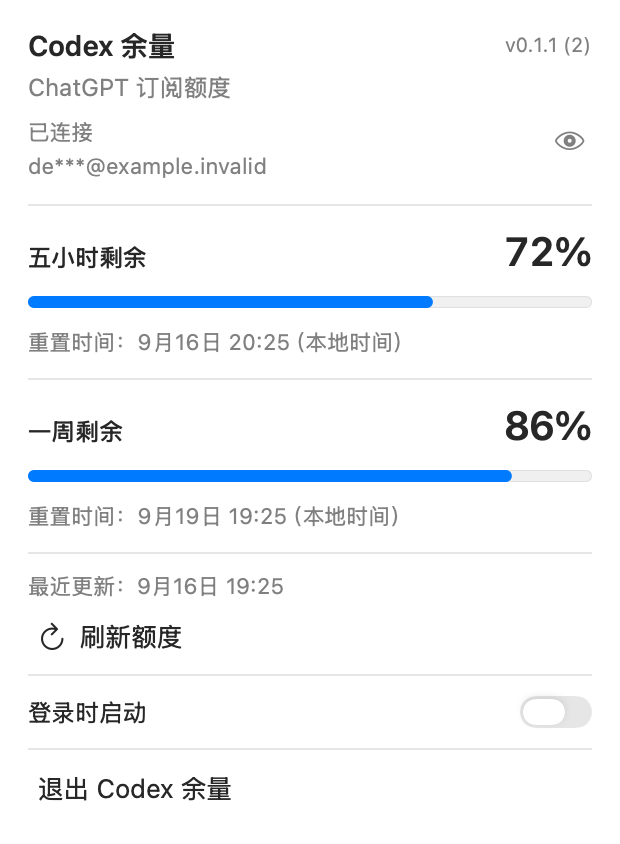
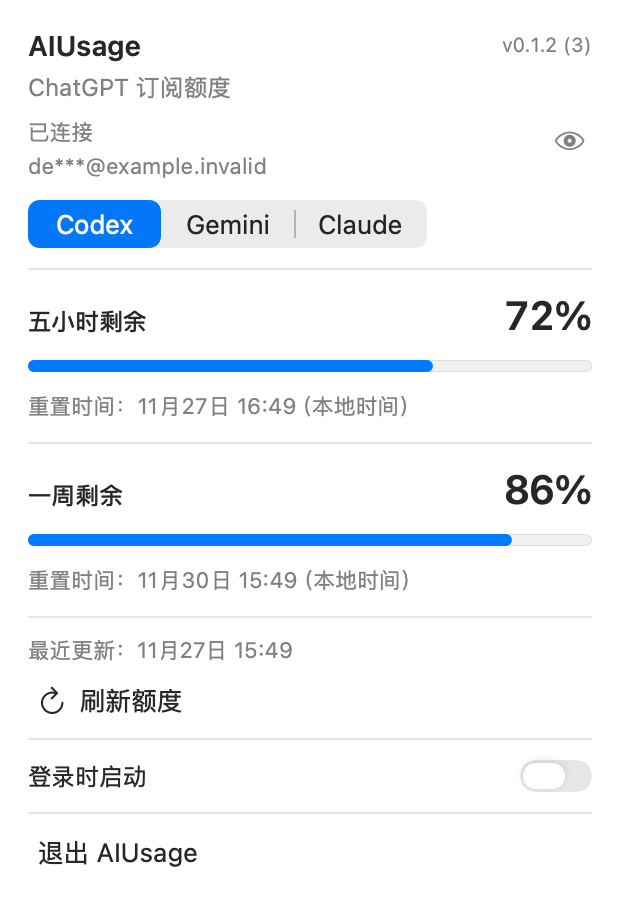
docs: 更新 v0.1.2 使用说明与 Gemini 截图

diff --git a/README.md b/README.md
@@ -1,41 +1,44 @@
-<img src="screenshots/app-icon.png" width="84" alt="Codex 余量 App 图标">
+<img src="screenshots/app-icon.png" width="84" alt="AIUsage App 图标">
 
-# Codex 余量
+# AIUsage（Codex / Gemini 余量）
 
-一个轻量的 macOS 菜单栏工具，抬眼就能看到 Codex 还剩多少额度。
+一个轻量的 macOS 菜单栏工具，抬眼就能看到 **Gemini（Antigravity）** 与 **Codex** 还剩多少额度，支持在弹窗顶部一键切换服务。
 
-**[下载 macOS App · v0.1.1 预览版](https://github.com/kale2222/CodexUsage/releases/download/v0.1.1/CodexUsage-0.1.1-macOS-arm64.zip)**
+**[下载 macOS App · v0.1.2 预览版](https://github.com/kale2222/CodexUsage/releases/download/v0.1.2/CodexUsage-0.1.2-macOS-arm64.zip)**
 
 [所有版本](https://github.com/kale2222/CodexUsage/releases) · [问题反馈](https://github.com/kale2222/CodexUsage/issues)
 
-- 五小时限额：`5h 72% · 22:29`
-- 仅周限额：`7d 86%`，完整重置日期放在详情中。
-- 默认约每 5 分钟更新，也支持手动刷新、账号核验和登录时启动。
+- **Gemini（Antigravity）**：显示五小时与一周余量（如 `5h 75% · 22:29`）及独立额度组（如 Claude 与 GPT 模型）；默认每 15 分钟自动刷新，打开弹窗时按需更新。
+- **Codex**：支持五小时限额（`5h 72% · 22:29`）与仅周限额（`7d 86%`）；默认约每 5 分钟自动刷新，支持手动刷新与脱敏账号核验。
+- **Claude**：弹窗顶部预留切换入口，当前尚未接入，不会发起后台读取。
+- 仅对当前选中的服务执行刷新与唤醒，支持登录时启动。
 
 百分比表示**剩余额度**，时间表示本地重置时刻。无需 Xcode 或自行编译。
 
 ## 界面预览
 
-<img src="screenshots/menu.png" width="180" alt="实际菜单栏中的 Codex 余量项">
+<img src="screenshots/menu.png" width="180" alt="实际菜单栏中的余量项">
 
-<p><img src="screenshots/weekly.png" width="310" alt="仅周限额、版本与脱敏账号"><img src="screenshots/dual.png" width="310" alt="五小时与一周额度详情"></p>
+<p><img src="screenshots/gemini.png" width="310" alt="Gemini 五小时、一周与独立额度组"><img src="screenshots/dual.png" width="310" alt="Codex 五小时与一周额度详情"></p>
 
-以上是运行中的原生 App 视图截图，使用演示账号与额度；截图采用纯色底方便阅读，实际浮层使用系统材质，不是 HTML 原型。
+<p><img src="screenshots/weekly.png" width="310" alt="Codex 仅周限额、版本与脱敏账号"></p>
+
+以上是运行中的原生 App 视图截图，使用离线演示身份与额度；截图采用纯色底方便阅读，实际浮层使用系统材质，不是 HTML 原型。
 
 ## 使用要求
 
 - Apple Silicon Mac，macOS 26 或更新版本。
-- 安装官方 ChatGPT / Codex 桌面应用或 Codex CLI。
-- 使用具有 Codex 使用权限的 **ChatGPT 账号登录**，不是 API Key 登录。
+- **使用 Gemini（Antigravity）**：本机已安装并登录 `agy` CLI（要求 `1.1.11` 或更新版本，本机已验证 `1.5.16`）。
+- **使用 Codex**：安装官方 ChatGPT / Codex 桌面应用或 Codex CLI，并使用具有 Codex 权限的 **ChatGPT 账号登录**（不是 API Key 登录）。
 
-本机已验证 macOS 26.5.2 和官方内附 Codex `0.154.0-alpha.6.2`。其他机器、组件版本及套餐仍需试用反馈；是否有可显示的窗口以官方实际返回为准。
+本机已验证 macOS 26.5.2、官方内附 Codex `0.154.0-alpha.6.2` 与 `agy 1.5.16`。其他机器、组件版本及套餐仍需试用反馈；是否有可显示的窗口以官方实际返回为准。
 
 ## 安装与首次连接
 
-1. 下载附件 **`CodexUsage-0.1.1-macOS-arm64.zip`**，解压后将 `CodexUsage.app` 拖入“应用程序”。
-2. 如果还没有官方 Codex 组件，按下面的指引先安装并登录。
-3. 打开本 App，点击菜单栏中的 ChatGPT 图标。已有可用登录时会直接显示额度；否则点击“连接 Codex”，在官方浏览器流程中登录。
-4. 查看详情中的账号。点击眼睛按钮可显示完整邮箱，与官方应用的个人资料菜单核对。
+1. 下载附件 **`CodexUsage-0.1.2-macOS-arm64.zip`**，解压后将 `CodexUsage.app` 拖入“应用程序”。
+2. 打开本 App，点击菜单栏图标，在弹窗顶部切换 **Codex / Gemini / Claude**：
+   - **Gemini**：首次启动默认选中 Gemini。若终端已登录 `agy`，会自动读取余量；若尚未登录或刚完成登录，请在终端登录 `agy` 后点击“重新检查”。
+   - **Codex**：已有可用登录时会直接显示额度；否则点击“连接 Codex”，在官方浏览器流程中登录。点击眼睛按钮可显示完整邮箱，与官方应用的个人资料菜单核对。
 
 请下载 Release 的 **App ZIP 附件**。`Source code (zip)` 和“Code → Download ZIP”仅包含本仓库的说明与截图，不是安装包。
 
@@ -61,7 +64,7 @@ codex login
 
 ## 重要：按住 Command（⌘）拖动菜单栏图标
 
-> **按住 Command（⌘），再用鼠标拖动菜单栏中的 ChatGPT 余量图标，就可以调整位置。**
+> **按住 Command（⌘），再用鼠标拖动菜单栏中的余量图标，就可以调整位置。**
 
 拖到靠近时钟、容易看到的位置后松开鼠标，再松开 Command，应用会记住位置。
 
@@ -73,30 +76,28 @@ codex login
 
 1. 尝试打开 App，然后关闭拦截提示。
 2. 打开 **系统设置 → 隐私与安全性 → 安全性**。
-3. 找到与 CodexUsage 相关的拦截记录，点击 **“仍要打开”**。
+3. 找到与 CodexUsage / AIUsage 相关的拦截记录，点击 **“仍要打开”**。
 4. 按提示验证身份，并确认“打开”。
 
 若没有相应按钮，或提示“App 已损坏”“将损坏你的电脑”，不要一概当作普通未公证提示；请重新下载并反馈具体错误。[Apple 官方说明](https://support.apple.com/zh-cn/102445)
 
 ## 账号与隐私
 
-- 数据路径是 **本 App → 本机官方 Codex 组件 → 官方服务**。本 App 没有开发者后端，也没有内置遥测或自动上报。
-- 读取的是 Codex 的 ChatGPT 账号限额，不是 API 余额、其他模型的独立额度或整个 ChatGPT 的通用消息额度。数字不是实时推送，可结合“最近更新”核对。
-- 详情默认对邮箱脱敏，点击眼睛按钮才显示完整邮箱。关闭详情、切到其他应用、重新连接或读取失败后会恢复脱敏。失败后的旧身份会标为“上次账号”。
-- 邮箱来自官方组件；若组件未提供邮箱，会明确提示无法核验。邮箱不能单独证明当前工作区，请同时在对应的官方组件中核对账号／工作区。
-- 本 App 不主动将邮箱或额度写入磁盘，只保存菜单栏位置、所选程序路径等偏好。密码和 token 由官方组件管理；官方组件的缓存、日志及网络行为遵循其自身设置。
-- 刷新时读取账号与额度；点击连接时会发起官方登录流程，可能写入或更新官方组件的共享登录缓存。不会启动模型任务；这**不代表**获得了独立的“只读余量权限”凭据。退出或卸载本 App 不会退出官方组件的共享账号。
+- **Gemini 数据路径**：**本 App → 本机 `agy` → 官方服务**。仅通过 `agy` 只读报告获取额度，不读取、复制或刷新凭据；报告不包含账号邮箱，因此 Gemini 视图不显示账号行。
+- **Codex 数据路径**：**本 App → 本机官方 Codex 组件 → 官方服务**。读取的是 Codex 的 ChatGPT 账号限额，不是 API 余额或通用消息额度；详情默认对邮箱脱敏，点击眼睛按钮才显示完整邮箱，关闭详情、切到其他应用、重新连接或读取失败后会恢复脱敏。
+- 本 App 没有开发者后端，也没有内置遥测或自动上报；不主动将邮箱或额度写入磁盘，只保存菜单栏位置、当前所选服务及程序路径等偏好。
+- 密码和 token 均由各自官方组件管理。退出或卸载本 App 不会退出官方组件的共享账号。
 
 <details>
 <summary><strong>登录失败、账号不符或额度不一致怎么办？</strong></summary>
 
-登录取消、超时或失效时，可以重新点击“连接 Codex”。取消连接只停止本次等待，不是注销官方账号。
+**Gemini：**
+- 提示未登录或未找到 `agy` 时，请在终端确认已安装 `agy`（≥ 1.1.11）并完成登录，然后点击弹窗中的“重新检查”。
+- 仅在菜单栏切换到 Gemini 时才会刷新 Gemini 额度；切到其他服务不会在后台启动 `agy`。
 
-如果显示的邮箱不符，桌面用户可在对应官方应用的个人资料菜单退出并登录正确账号；CLI 用户可使用 `codex logout` 后再运行 `codex login`。共享登录变化可能同时影响其他官方客户端。
-
-完成外部登录后，退出并重新打开本 App，让它重新检测登录。若仍提示未连接，可点击“连接 Codex”再完成一次官方登录流程。不要删除或上传 `auth.json` 来排障。
-
-请与**同一账号／工作区、相近更新时间**的官方 Codex 用量核对。未返回或无法识别的数据会显示不可用，不能据此推断不限额。Free 等套餐是否能显示，以官方为该账号返回的限额为准，目前未逐一验证所有套餐。
+**Codex：**
+- 登录取消、超时或失效时，可以重新点击“连接 Codex”。取消连接只停止本次等待，不是注销官方账号。
+- 如果显示的邮箱不符，桌面用户可在对应官方应用的个人资料菜单退出并登录正确账号；CLI 用户可使用 `codex logout` 后再运行 `codex login`。完成外部登录后，退出并重新打开本 App。不要删除或上传 `auth.json` 来排障。
 
 断网时保留上次成功数据并显示异常标记，恢复后可手动刷新。截图分享前请保持账号脱敏。
 
@@ -104,11 +105,11 @@ codex login
 
 ## 更新与卸载
 
-**更新：**在旧版弹窗中选择“退出 Codex 余量”，下载新版 App 并替换“应用程序”中的旧副本，再打开。详情右上角可核对版本与构建号，例如 `v0.1.1 (2)`。保留原安装路径，更新后检查“登录时启动”；预览版可能再次出现系统拦截提示。
+**更新：**在旧版弹窗中选择退出应用，下载新版 App 并替换“应用程序”中的旧副本，再打开。详情右上角可核对版本与构建号，例如 `v0.1.2 (3)`。保留原安装路径可沿用菜单栏位置与偏好；更新后请检查“登录时启动”，预览版可能再次出现系统拦截提示。
 
 **回退：**退出当前版本，从 Releases 下载旧版，在同一位置替换后打开。不同版本的偏好兼容性尚未全面验证。
 
-**卸载：**先关闭“登录时启动”（若设置失败，到系统设置的登录项中确认），然后退出 App，将 App 移到废纸篓。关闭详情窗口本身不会退出后台。系统可能保留本工具偏好；卸载本工具不需要删除官方 Codex 组件或它的登录凭据。
+**卸载：**先关闭“登录时启动”（若设置失败，到系统设置的登录项中确认），然后退出 App，将 App 移到废纸篓。关闭详情窗口本身不会退出后台。卸载本工具不需要删除官方 Codex 组件、`agy` 或它们的登录凭据。
 
 ## 反馈问题
 
@@ -118,4 +119,4 @@ codex login
 
 ---
 
-本仓库仅提供 App、使用说明和截图，不公开应用源码。非 OpenAI 官方项目；ChatGPT 图形标识归 OpenAI 所有。
+本仓库仅提供 App、使用说明和截图，不公开应用源码。非 OpenAI / Google / Anthropic 官方项目；相关图形标识归各自版权方所有。
